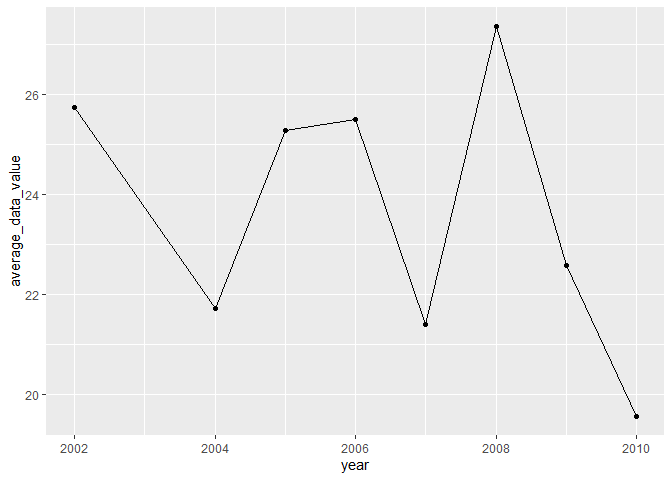
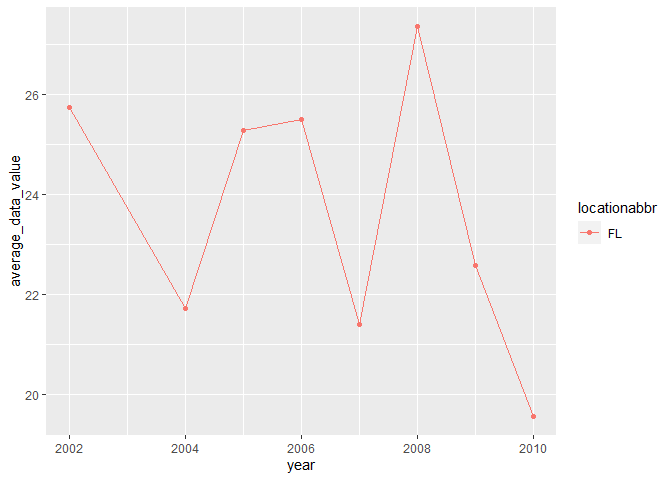
making two-panel plots

diff --git a/p8105_hw3_dr3168.md b/p8105_hw3_dr3168.md
@@ -21,6 +21,7 @@ library(tidyverse)
 ``` r
 library(p8105.datasets)
 library(forcats)
+library(patchwork)
 data("instacart")
 str(instacart)
 ```
@@ -326,7 +327,7 @@ brfss_smart2010 %>%
   group_by(year, locationabbr) %>% 
   summarize(average_data_value= mean(data_value, na.rm=T)) %>% 
   filter(locationabbr=="FL") %>% 
-  ggplot(aes(x = year, y = average_data_value)) + 
+  ggplot(aes(x = year, y = average_data_value, color=locationabbr)) + 
   geom_point() +
   geom_line()
 ```
@@ -340,3 +341,33 @@ brfss_smart2010 %>%
 ```
 
 \#Two panel plot
+
+``` r
+data_value_2006= 
+  brfss_smart2010 %>% 
+  janitor::clean_names() %>% 
+  filter(year==2006 & topic =="Overall Health") %>%
+  filter(locationabbr=="NY") %>% 
+  mutate(response =fct_relevel(response,c("Poor", "Fair", "Good", "Very good", "Excellent")))%>%
+  ggplot(aes(x = response, y = data_value)) + 
+  geom_point(aes(color = locationdesc)) +
+  theme(legend.position = "none")
+
+data_value_2010= 
+  brfss_smart2010 %>% 
+  janitor::clean_names() %>% 
+  filter(year==2010 & topic =="Overall Health") %>%
+  filter(locationabbr=="NY") %>% 
+  mutate(response =fct_relevel(response,c("Poor", "Fair", "Good", "Very good", "Excellent")))%>%
+  ggplot(aes(x = response, y = data_value)) + 
+  geom_point(aes(color = locationdesc)) +
+  theme(legend.position = "bottom")
+
+data_value_2006+data_value_2010
+```
+
+![](p8105_hw3_dr3168_files/figure-gfm/unnamed-chunk-12-1.png)<!-- -->
+
+``` r
+#This looks wrong...
+```
